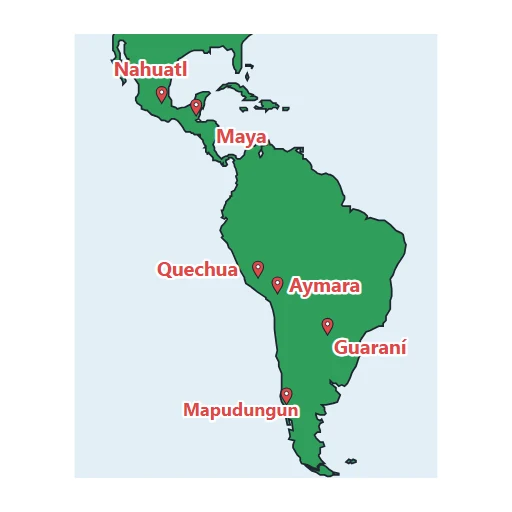
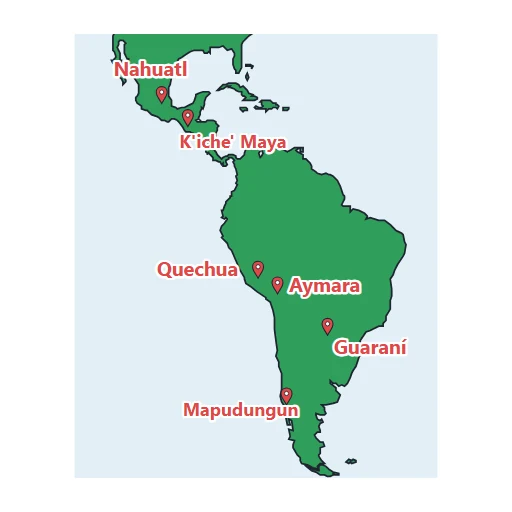
Word Wall: Indigenous languages map names K'iche' Maya, after a sensitivity review

Changed region(s): [[0.3438, 0.1875, 0.5625, 0.3125]]

diff --git a/data/closet/words/diagrams.py b/data/closet/words/diagrams.py
@@ -3804,7 +3804,7 @@ social-studies-9-revolutions-and-enlightenment/social-contract = raw(470, 330, g
 # elasticity: the same price rise on a steep demand curve (small drop in quantity) and a flat one (big drop)
 social-studies-12-supply-and-demand/elasticity = row(*[col(T(t, 28, c), plot(f, size=210, xr=(0, 10), yr=(0, 10), colors=(c,), segs=[((0, 6), (f_inv(6), 6), GRAY, True), ((0, 4), (f_inv(4), 4), GRAY, True), ((f_inv(6), 0), (f_inv(6), 6), GRAY, True), ((f_inv(4), 0), (f_inv(4), 4), GRAY, True), ((f_inv(4), 0.6), (f_inv(6), 0.6), RED)], points=[(f_inv(6), 6, RED), (f_inv(4), 4, RED)]), T(t2, 22, GRAY), gap=4) for t, c, f, f_inv, t2 in (('inelastic', BLUE, lambda q: 25 - 4 * q, lambda p: (25 - p) / 4, 'like gasoline'), ('elastic', ORANGE, lambda q: 7.5 - 0.6 * q, lambda p: (7.5 - p) / 0.6, 'quantity drops a lot'))], gap=20)
 # Indigenous languages: a map of Mexico, Central and South America with places where some Indigenous languages are spoken today
-world-languages-6-12-cultures-of-the-spanish-speaking-world/indigenous-languages = world_map(440, view=(-118, -56, -34, 33), pins=[(-99, 19.4), (-89.5, 17), (-73, -13.5), (-68.5, -16.5), (-57, -24.5), (-72.6, -38.7)], labels=[(-104, 26, 'Nahuatl', RED, 24), (-77, 13, 'Maya', RED, 24), (-88, -12, 'Quechua', RED, 24), (-56, -15, 'Aymara', RED, 24), (-46, -27, 'Guaraní', RED, 24), (-86, -40, 'Mapudungun', RED, 22)])
+world-languages-6-12-cultures-of-the-spanish-speaking-world/indigenous-languages = world_map(440, view=(-118, -56, -34, 33), pins=[(-99, 19.4), (-91.2, 15), (-73, -13.5), (-68.5, -16.5), (-57, -24.5), (-72.6, -38.7)], labels=[(-104, 26, 'Nahuatl', RED, 24), (-79, 12, "K'iche' Maya", RED, 22), (-88, -12, 'Quechua', RED, 24), (-56, -15, 'Aymara', RED, 24), (-46, -27, 'Guaraní', RED, 24), (-86, -40, 'Mapudungun', RED, 22)])
 # father: a family tree with the father picked out
 world-languages-k-12-family-and-home/father = family_tree('father')
 # grandmother: a family tree with the grandmother (a parent's mother) picked out
